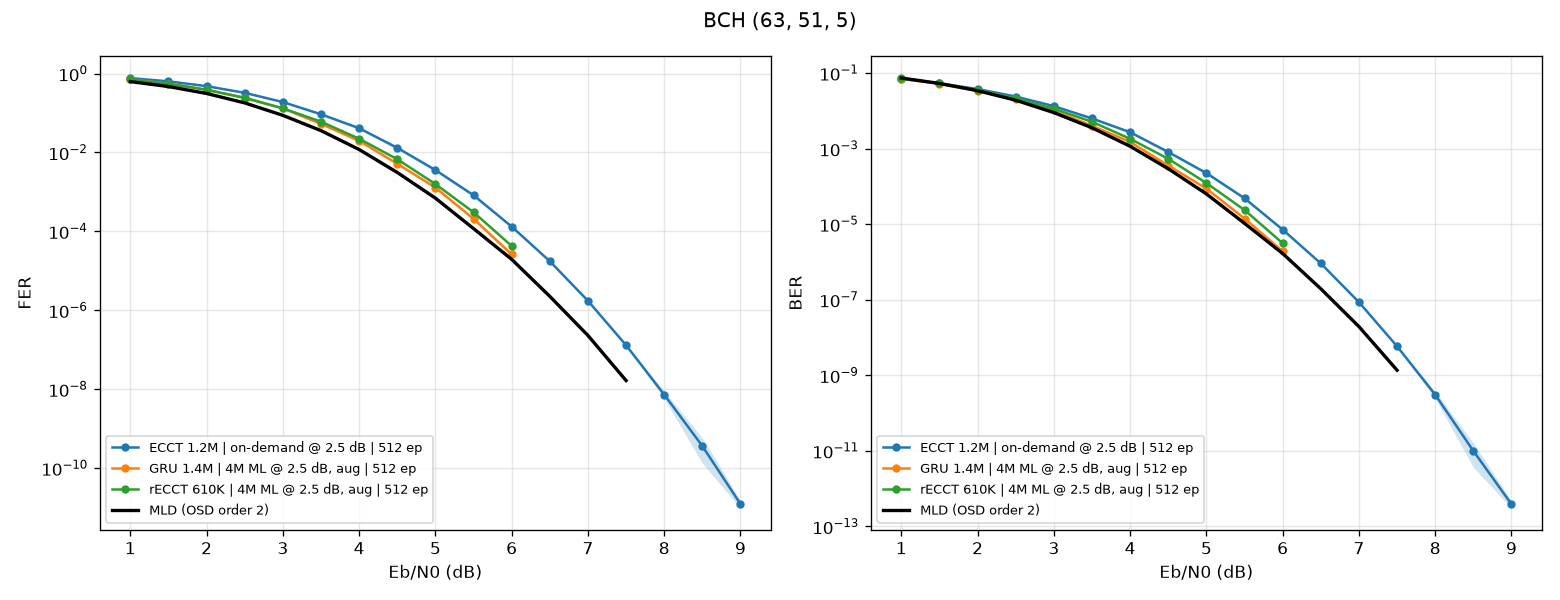
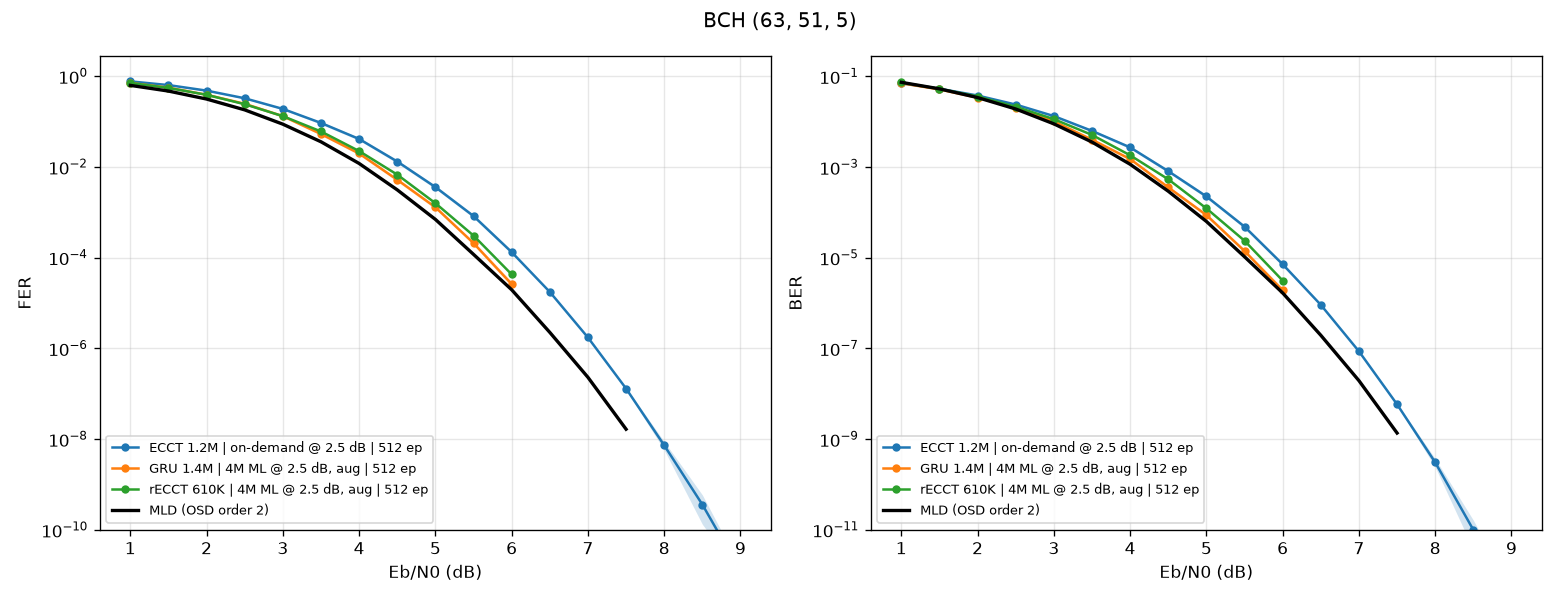
plot_experiments: FER axis from 1e-10 (BER 1e-11) on the (63,45) and (63,51) figures
Claude-Session: https://claude.ai/code/session_01RP3ZfdFHdqYPnEwCiWF3m4

diff --git a/scripts/plot_experiments.py b/scripts/plot_experiments.py
@@ -20,6 +20,8 @@ DOC = ROOT / "docs" / "experiments.md"
 OUT = ROOT / "docs" / "figs"
 # Eval logs drawn even when not the best of their model, cut at the given Eb/N0 (dB).
 ALSO_PLOT = {"ecct-bch-63-45-on-demand-2dB-512epochs-ancient-deluge-2226-bf16.csv": 7.5}
+# Lower y limits (FER, BER) where the default range hurts readability.
+YMIN = {"BCH (63, 45, 7)": (1e-10, 1e-11), "BCH (63, 51, 5)": (1e-10, 1e-11)}
 
 # MLD reference curves: (label, Eb/N0 dB, FER, info BER).
 # From sdd-julia OSD runs (>= 100 frame errors per point) unless noted.
@@ -229,7 +231,8 @@ def plot(code, runs):
         m = (snr >= xmin) & (snr <= xmax)
         for ax, y in zip(axes, (fer, ber)):
             ax.semilogy(snr[m], np.array(y)[m], "k-", lw=2, label=name)
-    for ax, name in zip(axes, ("FER", "BER")):
+    for ax, name, ymin in zip(axes, ("FER", "BER"), YMIN.get(code, (None, None))):
+        ax.set_ylim(bottom=ymin)
         ax.set_xlabel("Eb/N0 (dB)")
         ax.set_ylabel(name)
         ax.grid(True, which="both", alpha=0.3)
